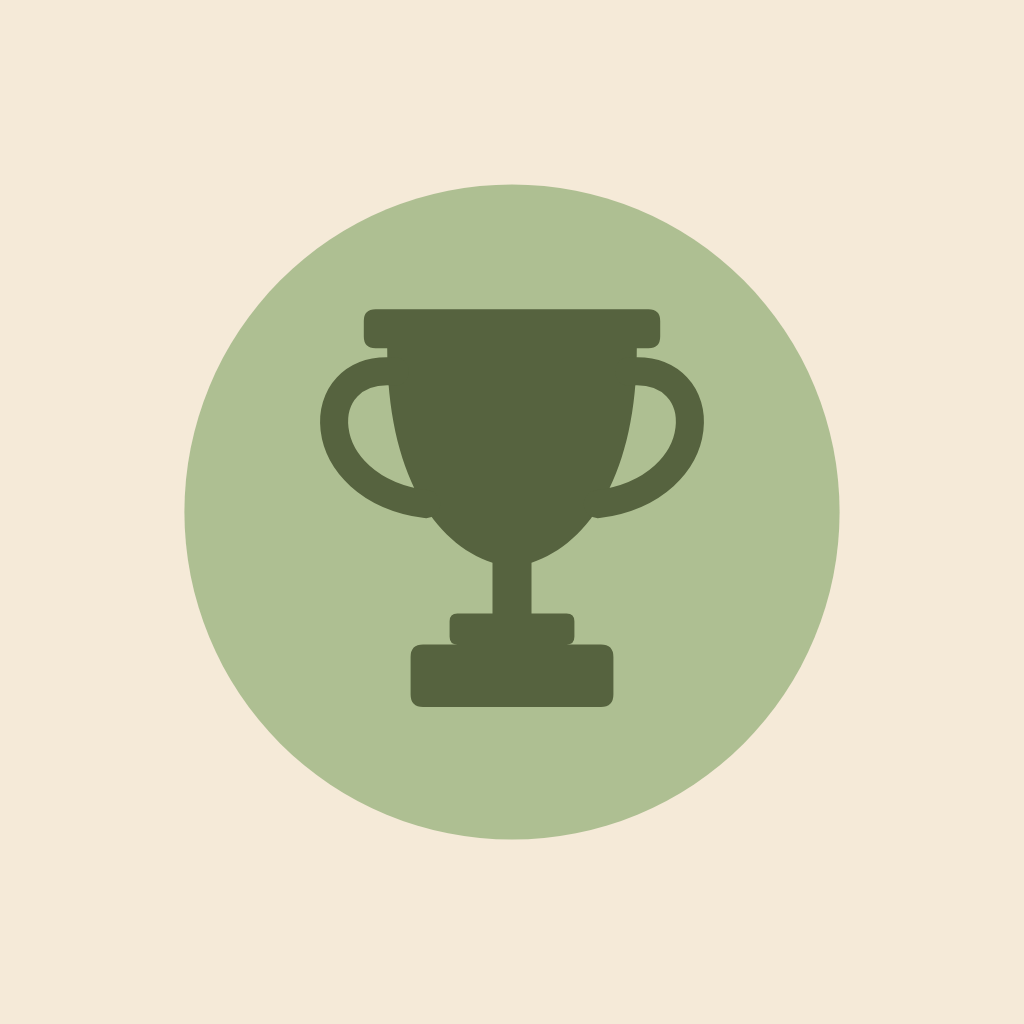
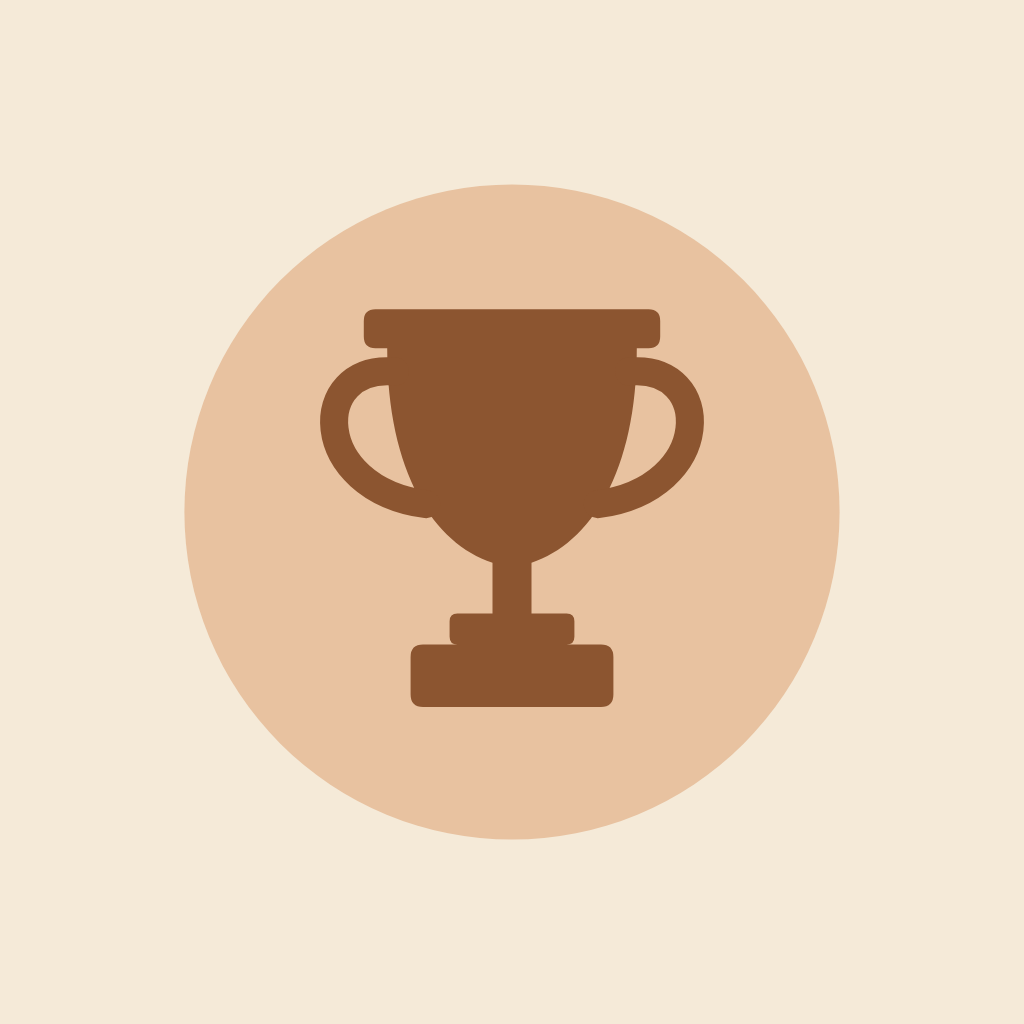
Draw the three wins milestones' trophies in bronze, silver and gold
The 10, 50 and 250 wins achievements shared one badge and were told
apart only by their names. They now draw the trophy as `trophy:1` to
`trophy:3`: a light disc of the metal with the cup in a deep shade of
it, the two-tone of every other badge. The plain `trophy` key still
draws it in the theme's chrome. The three Game Center images and the
manifest's icon keys are regenerated.

Claude-Session: https://claude.ai/code/session_015PWzxFX3LEWJUmMLyMgnkR

diff --git a/web/src/ui/icons.ts b/web/src/ui/icons.ts
@@ -1195,7 +1195,8 @@ const ICON_TONES: Record<string, ShapeTone> = {
 //
 // Four symbols, in the icon set's plain indigo rather than a shape colour:
 // they stand for a milestone rather than for a tile, and painting them in a
-// tile hue would claim a shape they are not about.
+// tile hue would claim a shape they are not about. (The wins tiers' trophies
+// are the exception: bronze, silver and gold, see `trophy`.)
 
 /** A symbol on the icon set's plain disc, so a badge with no tiling in it still
  * fills the same box a tiling patch does. */
@@ -1255,6 +1256,14 @@ function roundRectPath(x: number, y: number, w: number, h: number, r: number): s
   );
 }
 
+/** The wins milestones' metals, lowest tier first: a light disc and the cup
+ * on it in a deep shade of the same metal, the two-tone of every other badge. */
+const TROPHY_METALS: { disc: string; ink: string }[] = [
+  { disc: "#e8c2a0", ink: "#8c5530" }, // bronze
+  { disc: "#d9dee4", ink: "#5f6b78" }, // silver
+  { disc: "#f3d77e", ink: "#94700f" }, // gold
+];
+
 /** The trophy: a lipped rim, a bowl that narrows into its stem, a collar and a
  * plinth, and two loop handles.
  *
@@ -1262,9 +1271,15 @@ function roundRectPath(x: number, y: number, w: number, h: number, r: number): s
  * the collar onto the stem), and under even-odd every overlap is a hole — the
  * old drawing had a light sliver across its stem for exactly that reason. It
  * has no holes, so the body is one nonzero fill, every subpath clockwise, and
- * the handles are a round-capped stroke rather than outlines of one. */
-function trophy(d: number): string[] {
-  const ink = plain("dark");
+ * the handles are a round-capped stroke rather than outlines of one.
+ *
+ * `tier` 1 to 3 is the wins milestone it stands for, drawn in bronze, silver
+ * and gold — the one place a badge leaves the theme's palette, because a
+ * metal's rank is the thing the colour says. A bare `trophy` is the plain
+ * chrome. */
+function trophy(d: number, tier?: number): string[] {
+  const metal = tier === undefined ? undefined : TROPHY_METALS[tier - 1];
+  const ink = metal?.ink ?? plain("dark");
   const body =
     roundRectPath(d * 0.31, d * 0.24, d * 0.38, d * 0.05, d * 0.015) +
     ` M ${n(d * 0.34)} ${n(d * 0.29)} H ${n(d * 0.66)} ` +
@@ -1280,7 +1295,9 @@ function trophy(d: number): string[] {
     `M ${n(d * 0.65)} ${n(d * 0.32)} C ${n(d * 0.76)} ${n(d * 0.31)} ${n(d * 0.76)} ${n(d * 0.47)} ` +
     `${n(d * 0.61)} ${n(d * 0.49)}`;
   return [
-    circle(C, C, D * 0.42, null, 0, LIGHT),
+    metal
+      ? `<circle cx="${n(C)}" cy="${n(C)}" r="${n(D * 0.42)}" fill="${metal.disc}"/>`
+      : circle(C, C, D * 0.42, null, 0, LIGHT),
     `<path d="${body}" fill="${ink}"/>`,
     `<path d="${handles}" fill="none" stroke="${ink}" stroke-width="${n(d * 0.036)}" ` +
       `stroke-linecap="round"/>`,
@@ -1343,6 +1360,10 @@ function draw(rawKey: string): string[] {
   }
   if (key === "star") return badge(starPath(d));
   if (key === "trophy") return trophy(d);
+  if (key.startsWith("trophy:")) {
+    const tier = Number(key.slice(7));
+    if (Number.isInteger(tier) && tier >= 1 && tier <= TROPHY_METALS.length) return trophy(d, tier);
+  }
   if (key === "flag") return badge(flagPath(d));
   if (key === "warning") return badge(warningPath(d));
 

diff --git a/web/src/achievements.ts b/web/src/achievements.ts
@@ -318,7 +318,9 @@ function milestones(): Achievement[] {
       brief: `Win ${tier} games, on any boards`,
       done: `You won ${tier} games`,
       points: POINTS.winTier * 2 ** i,
-      icon: "trophy",
+      // Bronze, silver, gold: the three tiers are told apart by their badges,
+      // as the difficulty rungs are by their bars.
+      icon: `trophy:${i + 1}`,
       group: "milestone",
       measure: (p) => ({ have: Math.min(totalWins(p), tier), need: tier }),
     });

diff --git a/web/docs/ui.md b/web/docs/ui.md
@@ -1193,7 +1193,9 @@ trophy) — there is no geometry in "win ten boards". The `badge()` symbols are
 drawn `fill-rule="evenodd"`, because they have holes in them. The trophy is
 not: its pieces overlap (handles into the bowl, collar onto the stem), and
 under even-odd an overlap is a hole, so it is one nonzero fill with its
-handles stroked.
+handles stroked. The three wins milestones (10, 50, 250) draw it in bronze,
+silver and gold (`trophy:1` to `trophy:3`) — the one badge that leaves the
+theme's palette, since a metal's rank is what its colour says.
 
 ## The record in iCloud
 
